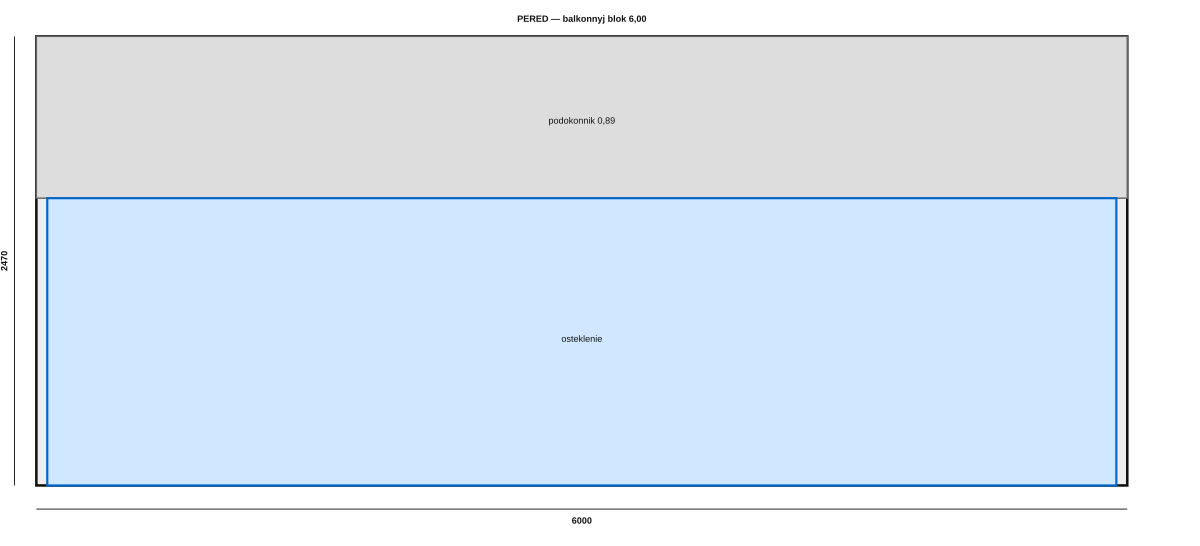
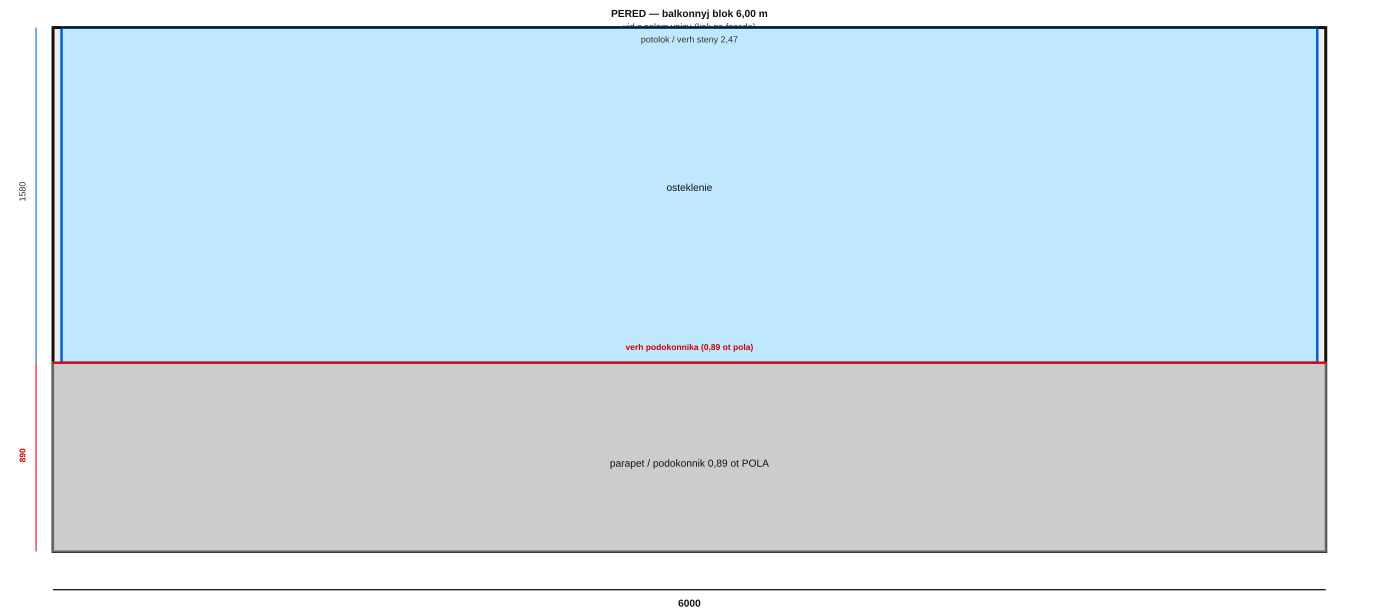
Fix front elevation: parapet 0.89m from floor; regen all PNGs

diff --git a/balcony-loggia/preview.html b/balcony-loggia/preview.html
@@ -13,9 +13,9 @@
   </style>
 </head>
 <body>
-  <h1>Лоджия — исправлено</h1>
-  <pre>Стена кв 6,8: 0,8 niша | 1,71 | ок 0,99 | 0,4 | БЛОК 2,22 (дверь 0,9 внутри) | 1,47
-Одна перемычка — один верх у 0,99 и блока, H 2,16</pre>
+  <h1>Лоджия — чертежи</h1>
+  <pre>Все разрезы: POL vnizu, podokonniki ot pola vverh
+Naruzhu: podok. 0,89 | V kvartiru: podok. 0,75 (blok)</pre>
   <h2>Стена квартиры</h2>
   <img src="elevation-apartment-6800.png" alt="Развертка">
   <h2>План</h2>
